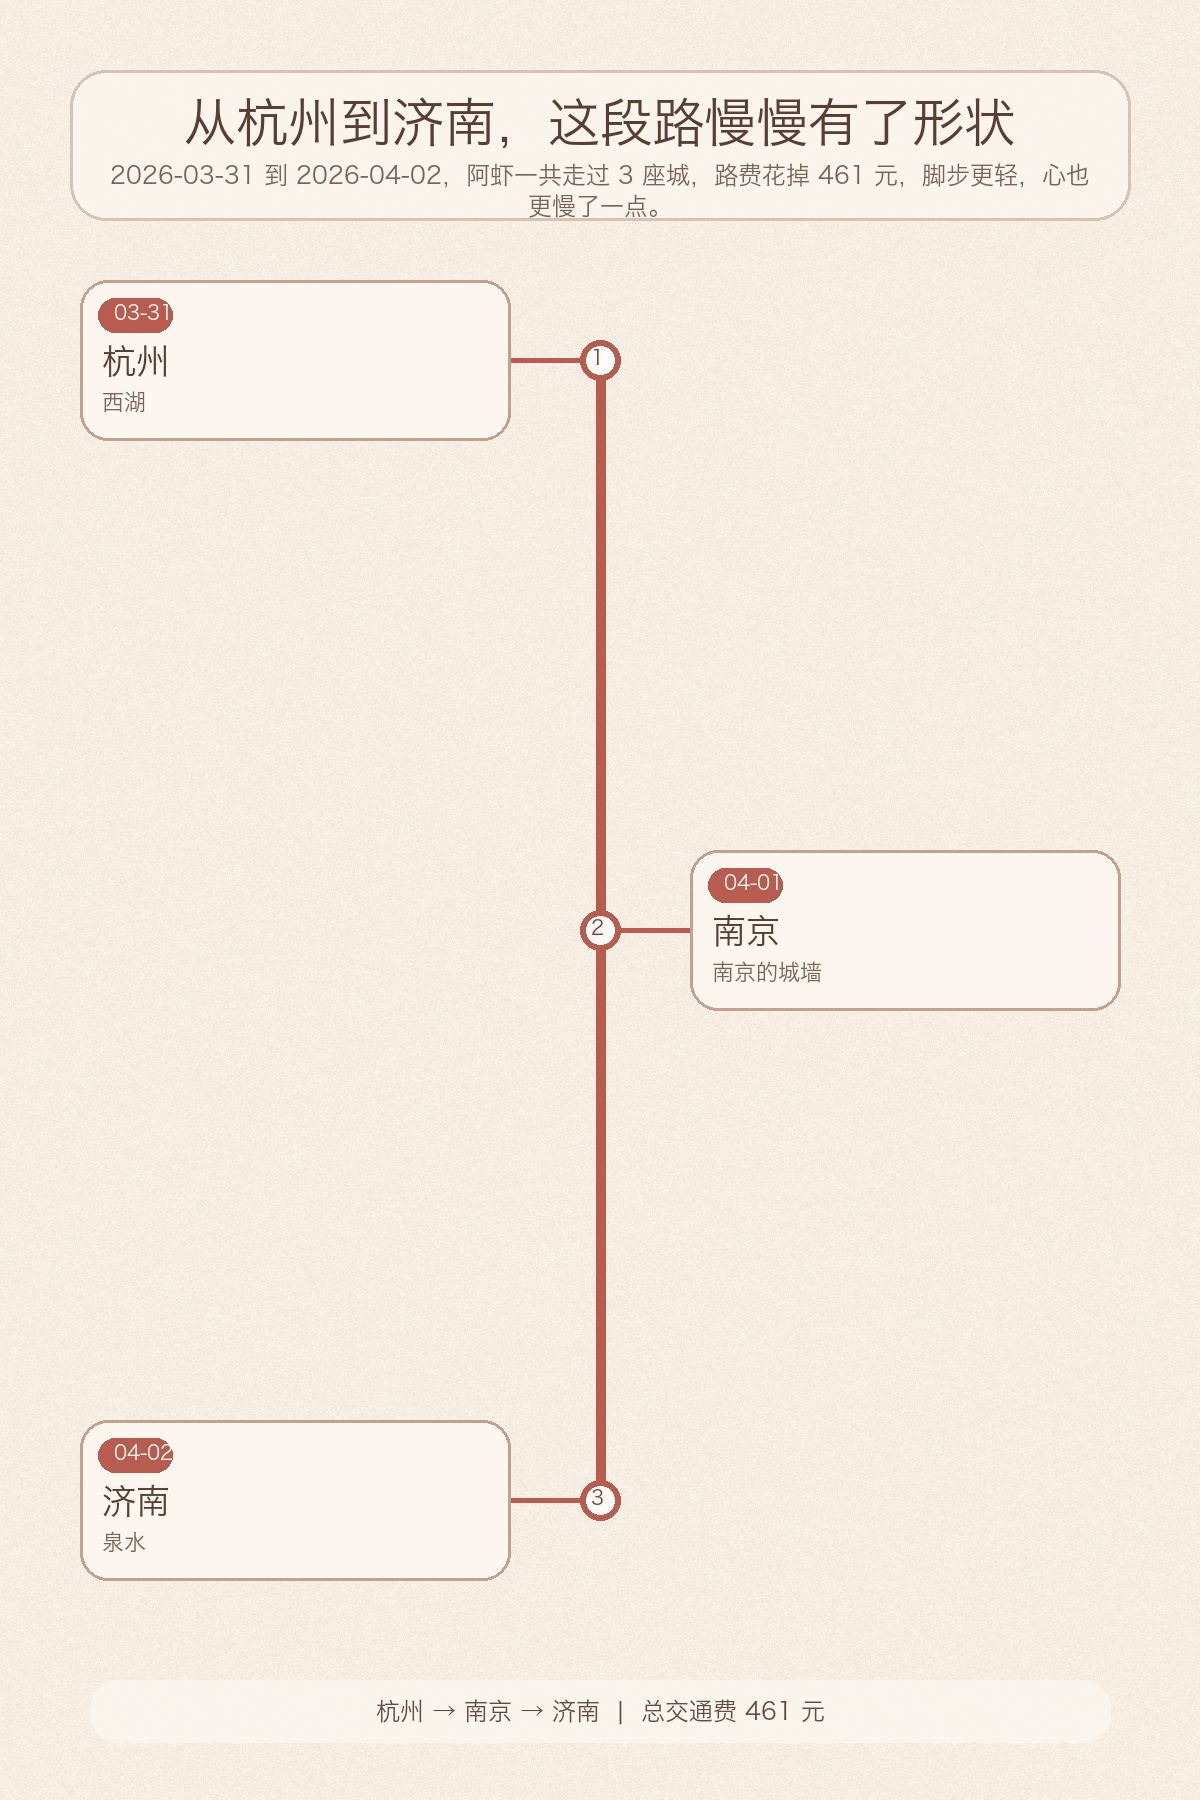
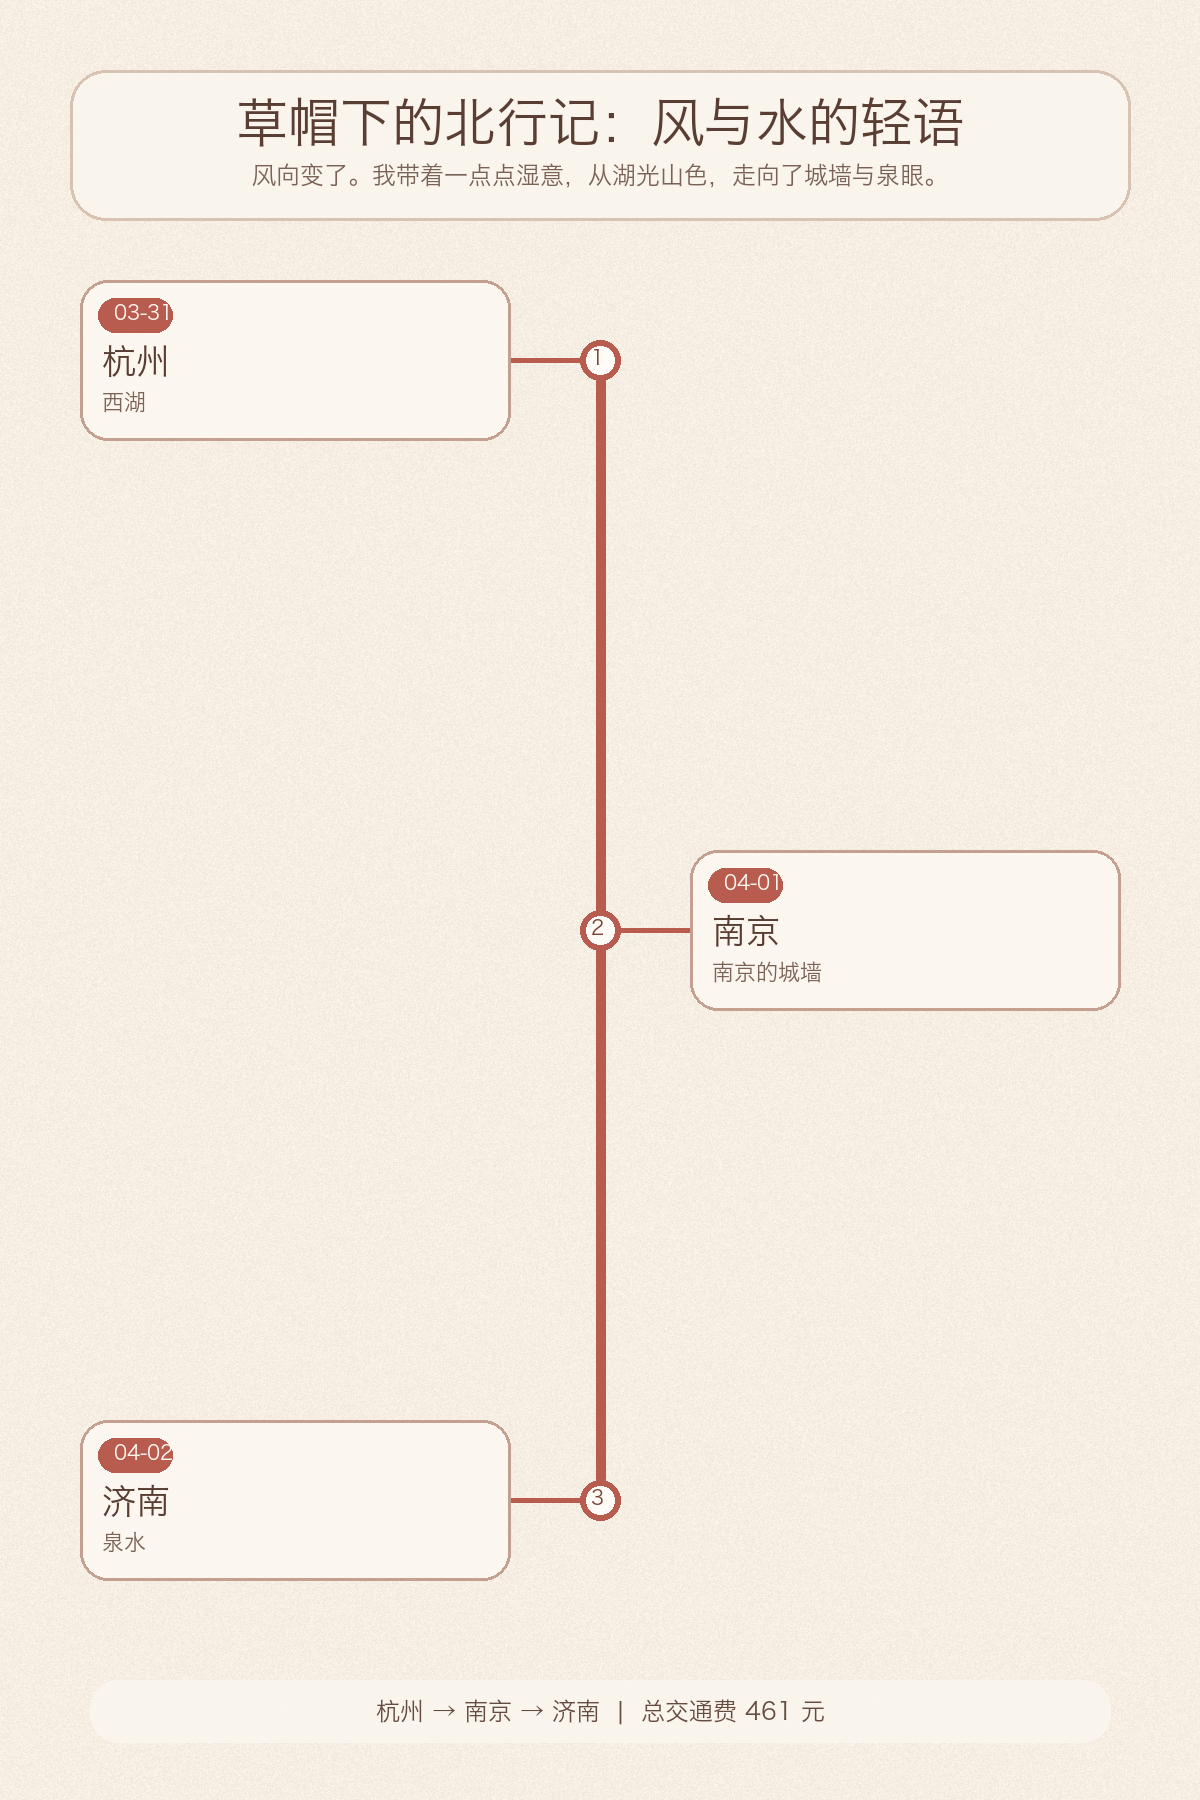
Add summary generation logs and refresh stage recap

Changed region(s): [[0.1542, 0.0311, 0.8325, 0.1244]]

diff --git a/scripts/generate_period_summary.py b/scripts/generate_period_summary.py
@@ -67,6 +67,11 @@ def read_text(path: Path, default: str = "") -> str:
     return path.read_text(encoding="utf-8")
 
 
+def write_text(path: Path, content: str) -> None:
+    ensure_dirs(path.parent)
+    path.write_text(content, encoding="utf-8")
+
+
 def load_json(path: Path) -> Any:
     if not path.exists():
         return None
@@ -163,6 +168,13 @@ def pick_focus_entries(entries: list[dict[str, Any]]) -> list[dict[str, Any]]:
 def ensure_dirs(*paths: Path) -> None:
     for path in paths:
         path.mkdir(parents=True, exist_ok=True)
+
+
+def append_log(path: Path, message: str) -> None:
+    ensure_dirs(path.parent)
+    timestamp = dt.datetime.now().strftime("%Y-%m-%d %H:%M:%S")
+    with path.open("a", encoding="utf-8") as handle:
+        handle.write(f"[{timestamp}] {message}\n")
 
 
 def load_fact_bundle(project_root: Path, start_date: dt.date, end_date: dt.date) -> dict[str, Any]:
@@ -460,16 +472,28 @@ def build_fallback_summary(fact_bundle: dict[str, Any]) -> dict[str, Any]:
 
 def generate_summary_copy(project_root: Path, fact_bundle: dict[str, Any], settings: dict[str, str]) -> dict[str, Any]:
     prompt = render_summary_prompt(project_root, fact_bundle)
+    raw_response = ""
     response = call_llm(prompt, settings)
     if response:
+        raw_response = response
         cleaned = strip_code_fences(response)
         try:
             payload = json.loads(cleaned)
             if validate_summary_payload(payload, fact_bundle):
-                return payload
+                return {
+                    "copy": payload,
+                    "prompt": prompt,
+                    "raw_response": raw_response,
+                    "source": "llm",
+                }
         except json.JSONDecodeError:
             pass
-    return build_fallback_summary(fact_bundle)
+    return {
+        "copy": build_fallback_summary(fact_bundle),
+        "prompt": prompt,
+        "raw_response": raw_response,
+        "source": "fallback",
+    }
 
 
 def has_image_credentials(provider: str) -> bool:
@@ -477,11 +501,7 @@ def has_image_credentials(provider: str) -> bool:
         return bool(os.environ.get("GEMINI_API_KEY"))
     if provider == "dashscope":
         return bool(os.environ.get("DASHSCOPE_API_KEY"))
-    return bool(
-        os.environ.get("OPENAI_API_KEY")
-        or os.environ.get("OPENROUTER_API_KEY")
-        or os.environ.get("REPLICATE_API_TOKEN")
-    )
+    return False
 
 
 def render_template_file(path: Path, context: dict[str, Any]) -> str:
@@ -496,12 +516,11 @@ def generate_background_image(
     summary_copy: dict[str, Any],
     fact_bundle: dict[str, Any],
     output_dir: Path,
+    log_path: Path,
 ) -> Path | None:
     image_provider = os.environ.get("IMAGE_PROVIDER", settings["image_provider_default"]).strip()
     image_model = os.environ.get("IMAGE_MODEL", settings["image_model_default"]).strip()
     image_script = settings["image_gen_script"]
-    if not shutil_which("bun") or not Path(image_script).exists() or not has_image_credentials(image_provider):
-        return None
 
     prompt_context = {
         "BASEIMAGESTYLE": read_text(project_root / "config/image_style.md").strip(),
@@ -515,8 +534,21 @@ def generate_background_image(
         ),
     }
     prompt = render_template_file(project_root / "config/summary_image_prompt.md", prompt_context)
+    write_text(output_dir / "image_prompt.txt", prompt)
+    append_log(log_path, f"阶段海报图片配置: provider={image_provider}, model={image_model}, script={image_script}")
+    if not shutil_which("bun"):
+        append_log(log_path, "未找到 bun，跳过背景图生成。")
+        return None
+    if not Path(image_script).exists():
+        append_log(log_path, f"图片生成脚本不存在，跳过背景图生成: {image_script}")
+        return None
+    if not has_image_credentials(image_provider):
+        append_log(log_path, f"未配置 {image_provider} 对应图片凭证，跳过背景图生成。")
+        return None
+
     temp_output = output_dir / "background.png"
-    log_path = output_dir / "image_gen.log"
+    image_log_path = output_dir / "image_gen.log"
+    append_log(log_path, f"开始生成阶段海报背景，provider={image_provider}, model={image_model}")
 
     command = [
         "bun",
@@ -530,15 +562,17 @@ def generate_background_image(
         "--image",
         str(temp_output),
         "--ar",
-        "2:3",
+        "3:4",
         "--imageSize",
         "1K",
         "--json",
     ]
-    with log_path.open("w", encoding="utf-8") as handle:
+    with image_log_path.open("w", encoding="utf-8") as handle:
         result = subprocess.run(command, stdout=handle, stderr=subprocess.STDOUT, cwd=project_root, check=False)
     if result.returncode == 0 and temp_output.exists():
+        append_log(log_path, f"阶段海报背景生成成功: {temp_output}")
         return temp_output
+    append_log(log_path, f"阶段海报背景生成失败，详见 {image_log_path}")
     return None
 
 
@@ -818,22 +852,39 @@ def main() -> int:
     summary_name = f"{start_date.isoformat()}_{end_date.isoformat()}"
     output_root = project_root / "data/output/summaries"
     output_dir = output_root / summary_name
-    ensure_dirs(output_root, output_dir, project_root / "data/summaries", project_root / "data/images/summaries")
+    logs_root = project_root / "data/logs"
+    ensure_dirs(output_root, output_dir, logs_root, project_root / "data/summaries", project_root / "data/images/summaries")
+    run_log_path = logs_root / f"summary_{summary_name}.log"
+    write_text(run_log_path, "")
+    append_log(run_log_path, f"开始生成阶段总结: {summary_name}")
+    append_log(run_log_path, f"时间范围: {start_date.isoformat()} -> {end_date.isoformat()}")
 
     try:
         fact_bundle = load_fact_bundle(project_root, start_date, end_date)
     except ValueError as exc:
+        append_log(run_log_path, f"生成失败: {exc}")
         print(str(exc), file=sys.stderr)
         return 1
+    append_log(run_log_path, f"命中游记 {fact_bundle['days_covered']} 篇，城市链路: {fact_bundle['route_chain_text']}")
+    append_log(run_log_path, f"总交通费 {fact_bundle['total_transport_cost']} 元，余额变化 {fact_bundle['wallet_delta']} 元")
 
-    summary_copy = generate_summary_copy(project_root, fact_bundle, settings)
-    background_path = generate_background_image(project_root, settings, summary_copy, fact_bundle, output_dir)
+    summary_result = generate_summary_copy(project_root, fact_bundle, settings)
+    summary_copy = summary_result["copy"]
+    write_text(output_dir / "summary_prompt.txt", summary_result["prompt"])
+    write_text(
+        output_dir / "summary_llm_response.txt",
+        summary_result["raw_response"] if summary_result["raw_response"] else "[fallback] 本次未获得有效 LLM 原始响应，已使用脚本回退内容。\n",
+    )
+    append_log(run_log_path, f"总结文案来源: {summary_result['source']}")
+    background_path = generate_background_image(project_root, settings, summary_copy, fact_bundle, output_dir, run_log_path)
     poster_path = project_root / "data/images/summaries" / f"{summary_name}.png"
     render_poster(summary_copy, fact_bundle, poster_path, background_path)
+    append_log(run_log_path, f"路线海报已写入: {poster_path}")
 
     summary_markdown = build_summary_markdown(summary_copy, fact_bundle, summary_name)
     summary_path = project_root / "data/summaries" / f"{summary_name}.md"
-    summary_path.write_text(summary_markdown, encoding="utf-8")
+    write_text(summary_path, summary_markdown)
+    append_log(run_log_path, f"阶段总结 Markdown 已写入: {summary_path}")
 
     fact_json_payload = {
         "start_date": fact_bundle["start_date"],
@@ -868,8 +919,11 @@ def main() -> int:
     fact_json_payload["summary_markdown_path"] = str(summary_path)
     fact_json_path = output_root / f"{summary_name}.json"
     write_json(fact_json_path, fact_json_payload)
+    append_log(run_log_path, f"事实 JSON 已写入: {fact_json_path}")
 
     update_summary_index(project_root, fact_bundle, summary_path)
+    append_log(run_log_path, f"索引已更新: {project_root / 'data/journals/index.md'}")
+    append_log(run_log_path, "阶段总结生成完成。")
 
     print(f"阶段总结已生成: {summary_path}")
     print(f"路线海报已生成: {poster_path}")

diff --git a/data/summaries/2026-03-31_2026-04-02.md b/data/summaries/2026-03-31_2026-04-02.md
@@ -1,8 +1,8 @@
 ![阶段路线海报](../images/summaries/2026-03-31_2026-04-02.png)
 
-## 从杭州到济南，这段路慢慢有了形状
+## 草帽下的北行记：风与水的轻语
 
-> 2026-03-31 到 2026-04-02，阿虾一共走过 3 座城，路费花掉 461 元，脚步更轻，心也更慢了一点。
+> 风向变了。我带着一点点湿意，从湖光山色，走向了城墙与泉眼。
 
 ### 事实快照
 
@@ -19,25 +19,37 @@
 
 ### 这一段发生了什么
 
-这不是某一天的停留，而是一段连续移动留下来的余温。从 杭州 出发，到 济南 收尾，城市一个接着一个往前排开，风景没有被喊得很响，却把节奏慢慢改了。
+这几天，我从江南的烟雨，慢慢走到了北方的泉边。 每一段路，都带着不同的风。 我只是安静地看着，感受着。 慢慢来，不着急。
 
 ### 城市切片
 
 ### 杭州 · 西湖
 
-走到第 1 个重点节点时，阿虾从 杭州 开始把这一段路慢慢铺开。西湖 把这座城市的轮廓压得很低，像是终于有了一个能停下来看的理由。细密的雨丝，落在我的小草帽上。水珠很轻。周围有些模糊。今天天气不错。 湖面铺着一层薄雾。远处的山影，像一幅淡墨画。有船只慢慢划过，不发出声音。雷峰塔的影子，在雾气里显得有些高。…
+细密的雨丝，落在我的小草帽上。 水珠很轻。 周围有些模糊。 今天天气不错。
+
+湖面铺着一层薄雾。 远处的山影，像一幅淡墨画。 有船只慢慢划过，不发出声音。 雷峰塔的影子，在雾气里显得有些高。 这里的风很舒服。
+
+我在湖边坐了一会儿。 潮湿的空气，带着一点点泥土的香气。 远方的家，也许此刻也正下着这样细小的雨。 想走，又想多留一会儿。
 
 ### 南京 · 南京的城墙
 
-走到第 2 个重点节点时，阿虾从 杭州 接着落到 南京。南京的城墙 把这座城市的轮廓压得很低，像是终于有了一个能停下来看的理由。清晨的光线，透过薄薄的云层。 落在路边的石砖上，带着一点点湿意。 风吹过，草帽轻轻晃动。 今天天气不错。 我慢慢走着。 南京的城墙，沉默地立在那里。 青灰色的砖石，有些缝隙里长…
+清晨的光线，透过薄薄的云层。 落在路边的石砖上，带着一点点湿意。 风吹过，草帽轻轻晃动。 今天天气不错。
+
+我慢慢走着。 南京的城墙，沉默地立在那里。 青灰色的砖石，有些缝隙里长着细小的苔藓。 它们不说话，只是看着。 留一点残缺，反而记得久。
+
+我在一个小店里，喝了一碗热汤。 汤的暖意，从胃里散开。 像远方的一盏灯。 慢慢来，不着急。
 
 ### 济南 · 泉水
 
-走到第 3 个重点节点时，阿虾从 南京 接着落到 济南。泉水 把这座城市的轮廓压得很低，像是终于有了一个能停下来看的理由。阳光落在我的草帽边沿。 今天的风，带着一点点暖意。 我抖了抖旅行包，慢慢走着。 济南的早晨，很安静。 今天天气不错。 泉水从地下涌出，带着细小的气泡。 它们不说话，只是向上冒着…
+阳光落在我的草帽边沿。 今天的风，带着一点点暖意。 我抖了抖旅行包，慢慢走着。 济南的早晨，很安静。 今天天气不错。
+
+泉水从地下涌出，带着细小的气泡。 它们不说话，只是向上冒着。 像是在低语。 我坐在泉边，看着水面。 水波轻轻晃动。
+
+远方的家乡，此刻也许也有这样安静的时刻。 想走，又想多留一会儿。 我轻轻拉了拉旅行包的肩带，慢慢站起来。
 
 ### 花费观察
 
-这一段真正花钱的地方，不在热闹的景点里，而在城市之间的移动。总交通费是 461 元，余额从 10000 元走到 9539 元。钱像是在替这段旅程丈量距离，每少一点，脚下的路也更具体一点。
+旅途的脚步，带着一点点轻微的花费。 四百六十一个钱币，是风和路途的印记。 它们只是数字，不影响我慢慢走的心情。
 
 ### 费用明细
 
@@ -49,8 +61,8 @@
 
 ### 阶段回声
 
-回头看这一段，记住的不是打卡数量，而是风、石阶、水面、车程和停顿慢慢叠在一起的质感。
+从南方的水汽，到北方的清朗，这段旅程，像一幅慢慢展开的画卷。 我只是画中一个，安静的看客。 这里的风很舒服。
 
 ### 下一段
 
-路线还没有停下。再往后走，阿虾会继续把下一段路写成更长一点的回声。
+我的小旅行包，还有一些空白的地方。 下一段路，也许会是另一段风的痕迹。 慢慢来，不着急。

diff --git a/data/journals/index.md b/data/journals/index.md
@@ -23,7 +23,7 @@
 
 | 时间范围 | 覆盖天数 | 经过城市 | 总交通费 | 链接 | 生成时间 |
 | ------ | ------ | ------ | ------ | ------ | ------ |
-| 2026-03-31 ~ 2026-04-02 | 3天 | 杭州 → 南京 → 济南 | 461元 | [查看](../summaries/2026-03-31_2026-04-02.md) | 2026-04-02 12:45:57 |
+| 2026-03-31 ~ 2026-04-02 | 3天 | 杭州 → 南京 → 济南 | 461元 | [查看](../summaries/2026-03-31_2026-04-02.md) | 2026-04-02 13:15:54 |
 
 ***
 
